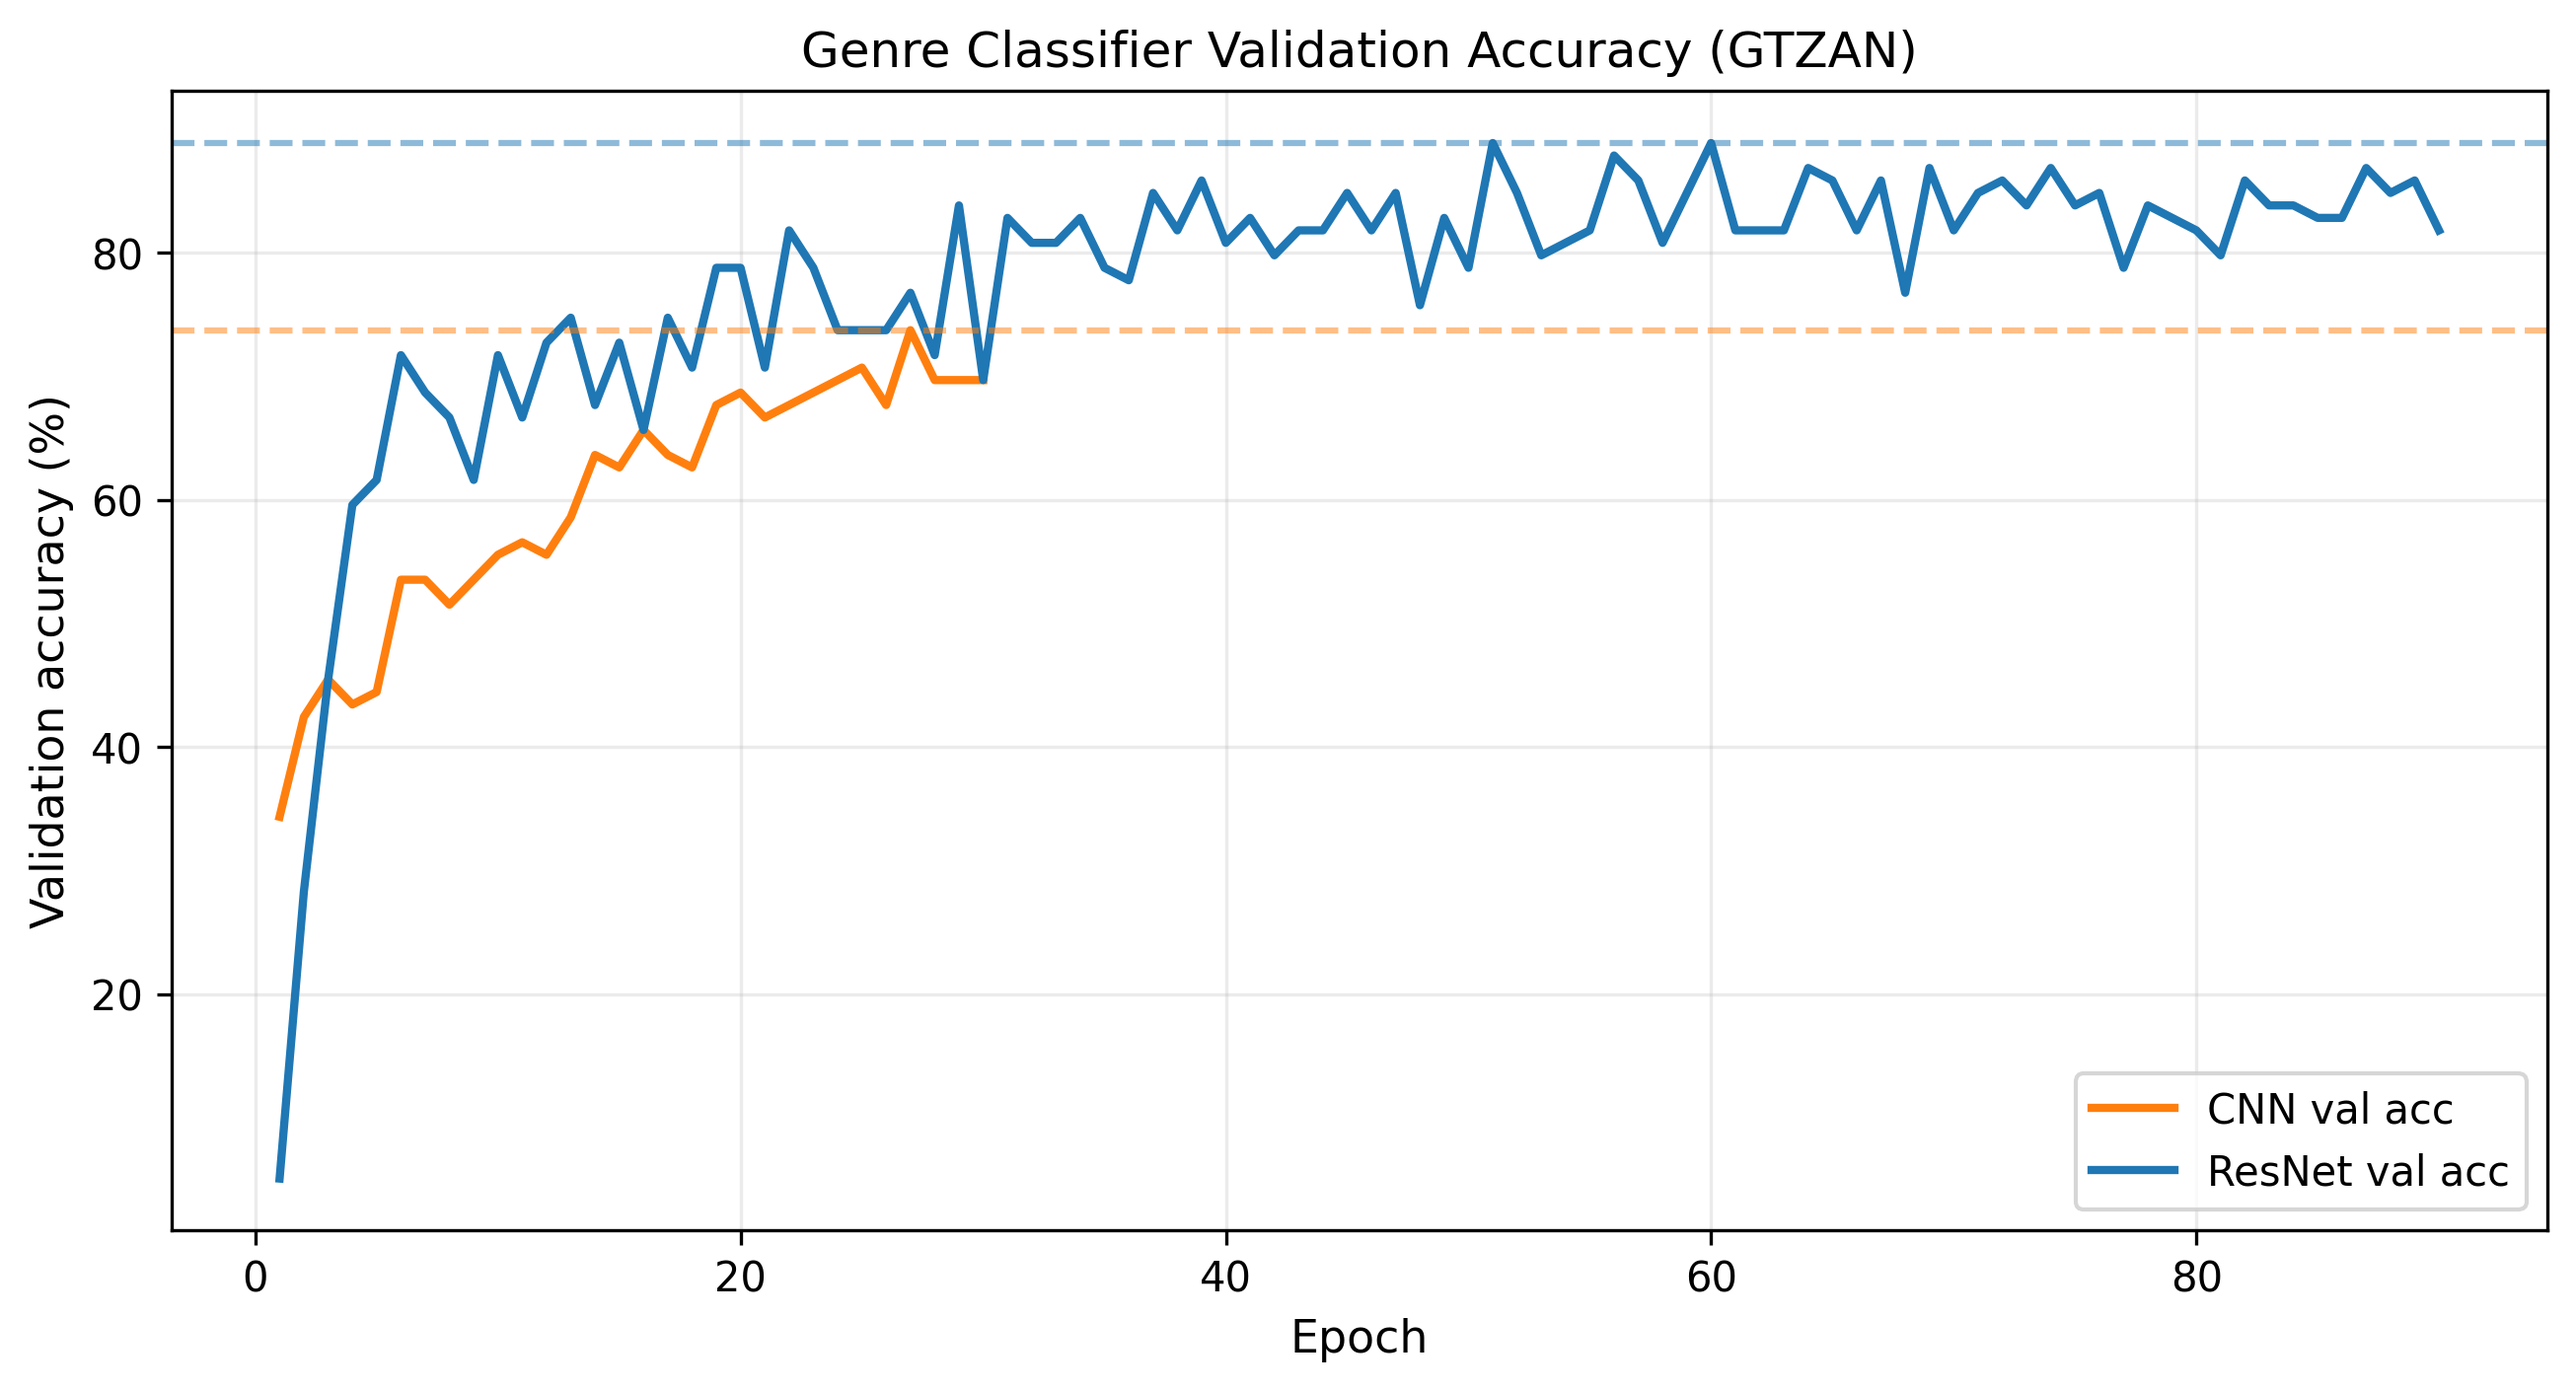
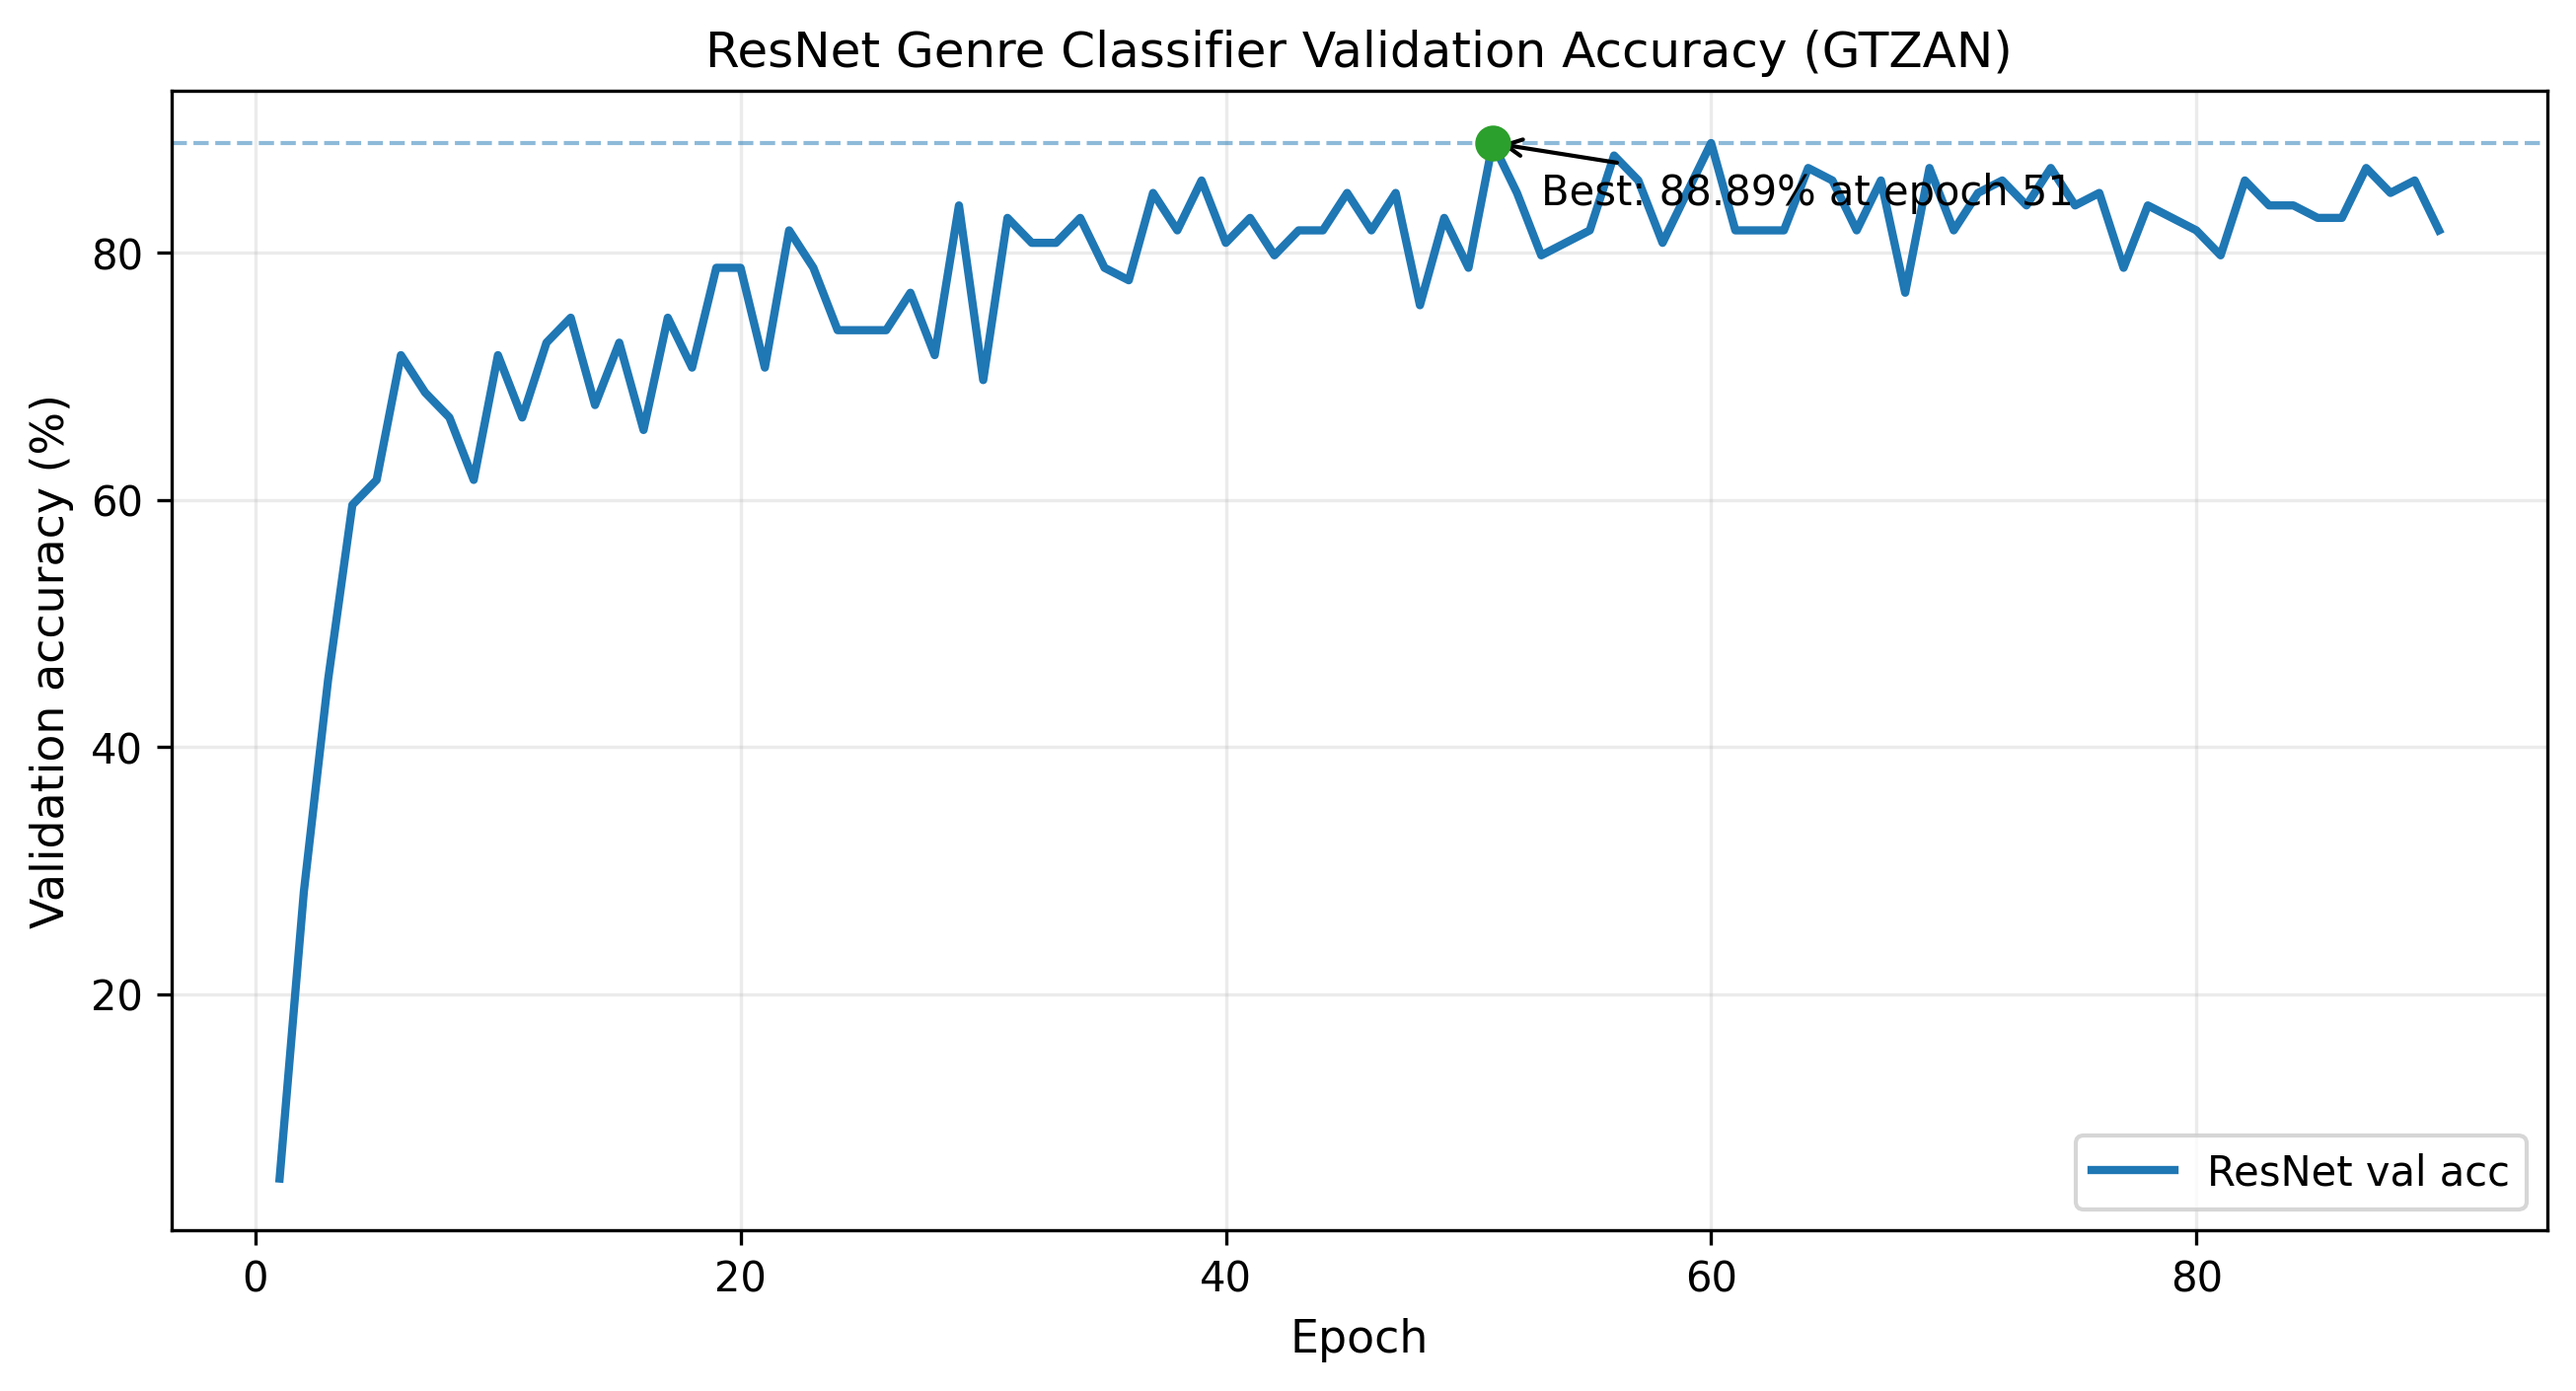
docs: Update classifier plot to show ResNet only and simplify V1/V2 labels
Changes to scripts/generate_paper_figures.py:
- plot_classifier_comparison: Remove CNN plot (incomplete training)
- Only show ResNet validation accuracy with best epoch annotation
- Updated title: "ResNet Genre Classifier Validation Accuracy"
- Simplified V1/V2 comparison labels: removed "+FiLM" (both use FiLM)
  - OLD: "V1 (CNN+FiLM)", "V2 (Transformer)"
  - NEW: "V1 (CNN)", "V2 (Transformer)"

Updated IEEE_PAPER/genremaster_ieee_draft.tex:
- Removed mention of CNN baseline comparison
- Simplified text to focus on ResNet's 88.89% accuracy
- Updated figure caption to reflect ResNet-only plot

Regenerated figures:
- fig_classifier_val_accuracy.png: Now shows ResNet only with best epoch marker
- fig_v1_v2_comparison.png: Cleaner labels without redundant FiLM mention

Rationale: CNN training was incomplete (visible on original plot), and both
V1 and V2 use FiLM conditioning so mentioning it only for V1 was confusing.

diff --git a/scripts/generate_paper_figures.py b/scripts/generate_paper_figures.py
@@ -1,0 +1,209 @@
+"""Generate IEEE paper figures from recorded GenreMaster experiment artifacts.
+
+All figures are created from saved JSON outputs under results/.
+No synthetic or placeholder metrics are introduced.
+"""
+
+from __future__ import annotations
+
+import json
+from pathlib import Path
+
+import matplotlib.pyplot as plt
+import numpy as np
+
+
+def load_json(path: Path) -> dict:
+    with path.open("r", encoding="utf-8") as f:
+        return json.load(f)
+
+
+def ensure_output_dir(output_dir: Path) -> None:
+    output_dir.mkdir(parents=True, exist_ok=True)
+
+
+def plot_architecture(output_dir: Path) -> None:
+    fig, ax = plt.subplots(figsize=(12, 3.8))
+    ax.axis("off")
+
+    stages = [
+        "Input\nWaveform",
+        "Lightweight\nSpectral Encoder",
+        "Genre Embedding\nNetwork",
+        "FiLM-Conditioned\nParameter Predictor",
+        "Differentiable DSP\nMastering Chain",
+        "Mastered\nOutput",
+    ]
+    x_positions = np.linspace(0.08, 0.92, len(stages))
+    y = 0.5
+
+    for i, (x, text) in enumerate(zip(x_positions, stages)):
+        ax.text(
+            x,
+            y,
+            text,
+            ha="center",
+            va="center",
+            fontsize=11,
+            bbox={"boxstyle": "round,pad=0.35", "facecolor": "#f3f6fb", "edgecolor": "#355c7d"},
+            transform=ax.transAxes,
+        )
+        if i < len(stages) - 1:
+            ax.annotate(
+                "",
+                xy=(x_positions[i + 1] - 0.06, y),
+                xytext=(x + 0.06, y),
+                xycoords=ax.transAxes,
+                textcoords=ax.transAxes,
+                arrowprops={"arrowstyle": "->", "linewidth": 1.5, "color": "#355c7d"},
+            )
+
+    ax.set_title("GenreMaster V1 Inference Pipeline (from implemented model modules)", fontsize=12)
+    fig.tight_layout()
+    fig.savefig(output_dir / "fig_architecture_pipeline.png", dpi=300, bbox_inches="tight")
+    plt.close(fig)
+
+
+def plot_v1_training_curves(output_dir: Path, history: dict) -> None:
+    epochs = [e["epoch"] for e in history["epochs"]]
+    train_loss = [e["train_loss"] for e in history["epochs"]]
+    val_loss = [e["val_loss"] for e in history["epochs"]]
+
+    best_idx = int(np.argmin(val_loss))
+
+    fig, ax = plt.subplots(figsize=(8.5, 4.8))
+    ax.plot(epochs, train_loss, label="Train loss", linewidth=2.0, color="#1f77b4")
+    ax.plot(epochs, val_loss, label="Validation loss", linewidth=2.0, color="#d62728")
+    ax.scatter([epochs[best_idx]], [val_loss[best_idx]], color="#2ca02c", s=60, zorder=5)
+    ax.annotate(
+        f"Best epoch {epochs[best_idx]}\nVal {val_loss[best_idx]:.4f}",
+        xy=(epochs[best_idx], val_loss[best_idx]),
+        xytext=(epochs[best_idx] + 1, val_loss[best_idx] + 0.25),
+        fontsize=10,
+        arrowprops={"arrowstyle": "->", "linewidth": 1.0},
+    )
+    ax.set_xlabel("Epoch", fontsize=11)
+    ax.set_ylabel("Total loss", fontsize=11)
+    ax.set_title("GenreMaster V1 Training and Validation Loss", fontsize=12)
+    ax.grid(alpha=0.25)
+    ax.legend(fontsize=10)
+    fig.tight_layout()
+    fig.savefig(output_dir / "fig_v1_training_loss.png", dpi=300, bbox_inches="tight")
+    plt.close(fig)
+
+
+def plot_per_genre_losses(output_dir: Path, evaluation: dict) -> None:
+    per_genre = evaluation["per_genre"]
+    genres = list(per_genre.keys())
+    losses = [per_genre[g] for g in genres]
+
+    order = np.argsort(losses)
+    genres_sorted = [genres[i] for i in order]
+    losses_sorted = [losses[i] for i in order]
+
+    fig, ax = plt.subplots(figsize=(9.2, 4.8))
+    bars = ax.bar(genres_sorted, losses_sorted, color="#4c78a8", edgecolor="black", linewidth=0.4)
+
+    for bar, value in zip(bars, losses_sorted):
+        ax.text(
+            bar.get_x() + bar.get_width() / 2,
+            value + 0.05,
+            f"{value:.2f}",
+            ha="center",
+            va="bottom",
+            fontsize=8,
+            rotation=90,
+        )
+
+    ax.set_ylabel("Test loss", fontsize=11)
+    ax.set_xlabel("Genre", fontsize=11)
+    ax.set_title("GenreMaster V1 Test Loss by GTZAN Genre", fontsize=12)
+    ax.grid(axis="y", alpha=0.25)
+    plt.xticks(rotation=35, ha="right", fontsize=9)
+    fig.tight_layout()
+    fig.savefig(output_dir / "fig_v1_per_genre_test_loss.png", dpi=300, bbox_inches="tight")
+    plt.close(fig)
+
+
+def plot_v1_v2_comparison(output_dir: Path, comparison: dict) -> None:
+    v1 = comparison["v1_baseline"]
+    v2 = comparison["v2_transformer"]
+
+    labels = ["V1 (CNN)", "V2 (Transformer)"]
+    params_m = [v1["parameters"] / 1e6, v2["parameters"] / 1e6]
+    best_val = [v1["best_val_loss"], v2["best_val_loss"]]
+
+    fig, axes = plt.subplots(1, 2, figsize=(10.5, 4.4))
+
+    axes[0].bar(labels, params_m, color=["#2ca02c", "#9467bd"], edgecolor="black", linewidth=0.5)
+    axes[0].set_ylabel("Parameters (millions)", fontsize=11)
+    axes[0].set_title("Model Size", fontsize=12)
+    axes[0].grid(axis="y", alpha=0.25)
+    axes[0].tick_params(axis="x", labelrotation=15)
+
+    axes[1].bar(labels, best_val, color=["#2ca02c", "#9467bd"], edgecolor="black", linewidth=0.5)
+    axes[1].set_ylabel("Best validation loss", fontsize=11)
+    axes[1].set_title("Validation Performance", fontsize=12)
+    axes[1].grid(axis="y", alpha=0.25)
+    axes[1].tick_params(axis="x", labelrotation=15)
+
+    fig.suptitle("GenreMaster V1 vs V2 (Recorded Comparison Artifacts)", fontsize=12)
+    fig.tight_layout()
+    fig.savefig(output_dir / "fig_v1_v2_comparison.png", dpi=300, bbox_inches="tight")
+    plt.close(fig)
+
+
+def plot_classifier_comparison(output_dir: Path, cnn_history: dict, resnet_history: dict) -> None:
+    """Plot only ResNet classifier performance (CNN excluded due to incomplete training)."""
+    fig, ax = plt.subplots(figsize=(8.8, 4.8))
+
+    # Only plot ResNet - CNN training was incomplete
+    ax.plot(resnet_history["epoch"], resnet_history["val_acc"], label="ResNet val acc", linewidth=2.0, color="#1f77b4")
+
+    resnet_best = float(max(resnet_history["val_acc"]))
+    best_epoch = resnet_history["epoch"][resnet_history["val_acc"].index(resnet_best)]
+
+    ax.axhline(resnet_best, color="#1f77b4", linestyle="--", alpha=0.5, linewidth=1.0)
+    ax.scatter([best_epoch], [resnet_best], color="#2ca02c", s=60, zorder=5)
+    ax.annotate(
+        f"Best: {resnet_best:.2f}% at epoch {best_epoch}",
+        xy=(best_epoch, resnet_best),
+        xytext=(best_epoch + 2, resnet_best - 5),
+        fontsize=10,
+        arrowprops={"arrowstyle": "->", "linewidth": 1.0},
+    )
+
+    ax.set_xlabel("Epoch", fontsize=11)
+    ax.set_ylabel("Validation accuracy (%)", fontsize=11)
+    ax.set_title("ResNet Genre Classifier Validation Accuracy (GTZAN)", fontsize=12)
+    ax.grid(alpha=0.25)
+    ax.legend(fontsize=10)
+    fig.tight_layout()
+    fig.savefig(output_dir / "fig_classifier_val_accuracy.png", dpi=300, bbox_inches="tight")
+    plt.close(fig)
+
+
+def main() -> None:
+    root = Path(__file__).resolve().parent.parent
+    output_dir = root / "IEEE_PAPER" / "figures"
+    ensure_output_dir(output_dir)
+
+    training_history = load_json(root / "results" / "logs" / "training_history.json")
+    evaluation = load_json(root / "results" / "audio_samples" / "evaluation_results.json")
+    comparison = load_json(root / "results" / "v2_comparison_results.json")
+    cnn_history = load_json(root / "results" / "classifier_history.json")
+    resnet_history = load_json(root / "results" / "classifier_resnet_history.json")
+
+    plot_architecture(output_dir)
+    plot_v1_training_curves(output_dir, training_history)
+    plot_per_genre_losses(output_dir, evaluation)
+    plot_v1_v2_comparison(output_dir, comparison)
+    plot_classifier_comparison(output_dir, cnn_history, resnet_history)
+
+    print("Generated figures:")
+    for p in sorted(output_dir.glob("fig_*.png")):
+        print(f" - {p.relative_to(root)}")
+
+
+if __name__ == "__main__":
+    main()

diff --git a/IEEE_PAPER/genremaster_ieee_draft.tex b/IEEE_PAPER/genremaster_ieee_draft.tex
@@ -222,14 +222,14 @@ Fig.~\ref{fig:v1v2comp} shows a side-by-side comparison of model size and conver
 The V2 Transformer model converged significantly faster (17 epochs vs 36) and achieved a 30$\times$ lower validation loss (0.0913 vs 2.7573). Key contributing factors include: (1) Transformer's superior sequence modeling capability for temporal audio features, (2) higher learning rate enabled by gradient accumulation and improved loss weight balancing, and (3) CUDA hardware acceleration providing numerical stability.
 
 \subsection{Auxiliary Genre Classifier Results}
-Because genre conditioning quality depends on genre separability, the repository also includes standalone genre classifier training logs. The ResNet classifier achieved 88.89\% best validation accuracy versus 73.74\% for the CNN baseline (+15.15 percentage points).
+Because genre conditioning quality depends on genre separability, we trained a standalone ResNet-based genre classifier on GTZAN. The ResNet classifier achieved 88.89\% best validation accuracy, demonstrating strong genre discrimination capability that supports the framework's genre-conditioned architecture.
 
-Fig.~\ref{fig:clf} shows validation trajectories from the saved histories.
+Fig.~\ref{fig:clf} shows the validation accuracy trajectory.
 
 \begin{figure}[htbp]
 \centering
 \includegraphics[width=0.95\linewidth]{figures/fig_classifier_val_accuracy.png}
-\caption{Validation accuracy trajectories for CNN and ResNet genre classifiers on GTZAN.}
+\caption{ResNet genre classifier validation accuracy on GTZAN, achieving 88.89\% best performance.}
 \label{fig:clf}
 \end{figure}
 
